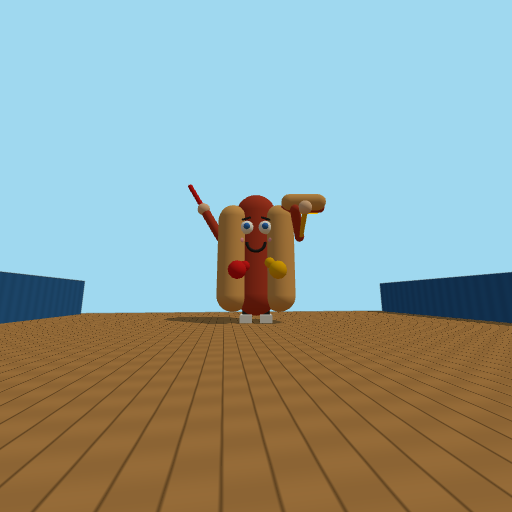
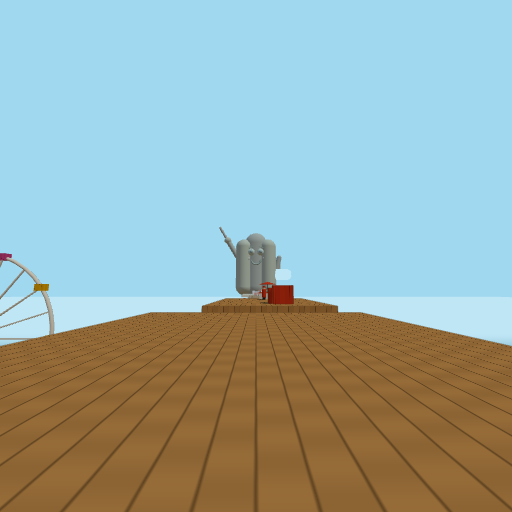
v1.4.0: the Big Wiener looms over the whole run
- boss is spawned at game start as a ~180 m colossus standing in the sea past the pier's end; fog-exempt
  with distance haze so it reads as a silhouette from spawn and grows as you approach
- pier generation now bridges exactly into a fixed arena at its feet (y levels off on the approach)
- giant hot dogs thrown from its hand on a high arc; boss HP 75; castShadow off for the giant

diff --git a/public/index.html b/public/index.html
@@ -3,7 +3,7 @@
 <head>
 <meta charset="utf-8">
 <meta name="viewport" content="width=device-width, initial-scale=1, maximum-scale=1, user-scalable=no">
-<meta name="version" content="1.3.0">
+<meta name="version" content="1.4.0">
 <title>Hot Dog Dash</title>
 <style>
   html, body { margin:0; padding:0; width:100%; height:100%; overflow:hidden; background:#9fd8ef; font-family: "Helvetica Neue", Helvetica, Arial, sans-serif; user-select:none; -webkit-user-select:none; }
@@ -62,7 +62,7 @@
   <div id="bossbar" class="hidden"><div class="bn">THE BIG WIENER</div><div class="bb"><div id="bfill"></div></div><div id="crave" class="k">WANTS: KETCHUP</div></div>
   <div id="banner"></div>
   <div id="tbar"><div id="tfill"></div></div>
-  <div id="ver">v1.3.0</div>
+  <div id="ver">v1.4.0</div>
   <div id="lockHint" class="hidden">MOUSE NOT CAPTURED &middot; CLICK THE GAME TO LOCK</div>
   <div id="touch"><div id="joy"><div id="knob"></div></div><div class="tbtn" id="bJump">JUMP</div><div class="tbtn" id="bPunch">SHOVE</div><div class="tbtn hidden" id="bMust">MUSTARD</div></div>
 </div>
@@ -104,7 +104,7 @@
 <script type="module">
 import * as THREE from 'three';
 
-const VERSION = '1.3.0';
+const VERSION = '1.4.0';
 document.getElementById('ver').textContent = 'v' + VERSION;
 
 // ---------- Renderer / scene ----------
@@ -116,7 +116,7 @@ renderer.shadowMap.type = THREE.PCFSoftShadowMap;
 const scene = new THREE.Scene();
 scene.background = new THREE.Color(0x9fd8ef);
 scene.fog = new THREE.Fog(0xbfe6f5, 45, 170);
-const camera = new THREE.PerspectiveCamera(82, 1, 0.1, 400);
+const camera = new THREE.PerspectiveCamera(82, 1, 0.1, 1500);
 camera.rotation.order = 'YXZ';
 scene.add(camera);
 
@@ -267,7 +267,8 @@ function genChunk() {
   scene.add(ch.group);
   const spots = [];
   const c = cursor;
-  let type = i === 0 ? 'start' : i === BOSS_CHUNK ? 'arena' : i < 3 ? 'flat' : pick(['flat', 'flat', 'pillars', 'stairs', 'wallgap', 'corridor']);
+  let type = i === 0 ? 'start' : i < 3 ? 'flat' : pick(['flat', 'flat', 'pillars', 'stairs', 'wallgap', 'corridor']);
+  if (i > 0 && !arenaDone) { if (ch.bridgeNext || c.z <= ARENA_Z + 2) type = 'arena'; else if (c.z - 40 <= ARENA_Z) type = 'bridge'; }
   const nAgents = () => 1 + (Math.random() < d * 1.4 ? 1 : 0) + (Math.random() < d * 0.8 ? 1 : 0);
 
   if (type === 'start') {
@@ -317,13 +318,23 @@ function genChunk() {
     const na = Math.max(1, nAgents() - 1);
     for (let k = 0; k < na; k++) spots.push([c.x + rand(-3, 3), c.y, c.z - rand(len * 0.5, len * 0.9)]);
     c.z -= len;
+  } else if (type === 'bridge') {
+    // last stretch: a wide plank road that steers the pier back to x=0 and ends right at the arena
+    const len = Math.max(6, c.z - (ARENA_Z + 3));
+    addBox(ch, c.x / 2, c.y - 1, c.z, Math.abs(c.x) + 12, 1, len);
+    const na = nAgents();
+    for (let k = 0; k < na; k++) spots.push([rand(-3, 3), c.y, c.z - rand(len * 0.3, len * 0.8)]);
+    c.z = ARENA_Z; c.x = 0;
+    ch.bridge = true;
   } else if (type === 'arena') {
-    // the end of the pier: a wide stage with a few barrels for cover, two vendors, and the Big Wiener at the far end
-    addBox(ch, c.x, c.y - 1, c.z, 38, 1, 56);
-    for (let k = 0; k < 7; k++) addBox(ch, c.x + rand(-15, 15), c.y, c.z - rand(8, 34), 1.5, rand(1, 1.7), 1.5, crateMat);
-    for (const sx of [-1, 1]) { addBox(ch, c.x + sx * 17, c.y, c.z - 1, 4, 3, 54, wallMat); }          // side tents keep you on stage
-    spots.push([c.x - 10, c.y, c.z - 24], [c.x + 10, c.y, c.z - 24]);
-    boss = new Boss(c.x, c.y, c.z - 46);
+    // the end of the pier: a wide stage at y=0 (the boss's feet), barrels for cover, two vendors
+    c.x = 0; c.z = ARENA_Z;
+    const bottom = Math.min(c.y, 0) - 1;
+    addBox(ch, 0, bottom, c.z, 38, 0 - bottom, 56);
+    c.y = 0;
+    for (let k = 0; k < 7; k++) addBox(ch, rand(-15, 15), 0, c.z - rand(8, 34), 1.5, rand(1, 1.7), 1.5, crateMat);
+    for (const sx of [-1, 1]) { addBox(ch, sx * 17, 0, c.z - 1, 4, 3, 54, wallMat); }          // side tents keep you on stage
+    spots.push([-10, 0, c.z - 24], [10, 0, c.z - 24]);
     bossZoneZ = c.z - 3; arenaDone = true;
     c.z -= 56;
   } else if (type === 'corridor') {
@@ -338,12 +349,16 @@ function genChunk() {
     c.z -= len;
   }
 
-  // transition gap + drift
-  const gap = rand(2.5, 4.5) + d * 1.2;
-  const maxUp = 1.2 - (gap - 2.5) * 0.3;
-  c.z -= gap;
-  c.x += rand(-2.5, 2.5);
-  c.y = clamp(c.y + (Math.random() < 0.5 ? -rand(1, 3) : rand(0, maxUp)), -5, 9);
+  // transition gap + drift (the bridge lands exactly on the arena; the approach drifts back toward y=0)
+  if (type !== 'bridge' && type !== 'arena') {
+    const gap = rand(2.5, 4.5) + d * 1.2;
+    const maxUp = 1.2 - (gap - 2.5) * 0.3;
+    c.z -= gap;
+    c.x += rand(-2.5, 2.5);
+    const near = c.z < ARENA_Z + 160;
+    const dy = Math.random() < (near ? (c.y > 0 ? 0.8 : 0.2) : 0.5) ? -rand(1, 3) : rand(0, maxUp);
+    c.y = near ? clamp(c.y + dy, -1.5, 3) : clamp(c.y + dy, -5, 9);
+  }
 
   // carnival decoration along the shore (non-colliding)
   for (let k = 0; k < 3; k++) {
@@ -519,7 +534,9 @@ function spawnFrags(x, y, z, n = 12, sc = 1) {
 }
 
 // ---------- The Big Wiener (final boss) ----------
-const BOSS_CHUNK = 22;                 // arena is generated as this chunk; nothing is generated past it
+const ARENA_Z = -560, BOSS_Z = ARENA_Z - 56 - 80, BOSS_SCALE = 24, BOSS_Y = -30;   // a ~180 m Big Wiener stands in the sea beyond the pier's end, visible from spawn
+const bossMats = [];
+function bm(mat) { const m = mat.clone(); m.fog = false; m.userData.base = m.color.clone(); bossMats.push(m); return m; }
 let boss = null, arenaDone = false, inBossZone = false, bossZoneZ = 0, won = false;
 const BOSS_YELLS = {
   wind: ['I AM THE WURST!', 'YOU CAN\'T RELISH THIS!', 'COME GET SOME, BUN!', 'FRESH OUT OF MERCY!', 'EAT THE BIG ONE!', 'NOBODY DASHES MY DOGS!'],
@@ -540,35 +557,36 @@ function makeBottle(mat, h = 0.26) {
 }
 class Boss {
   constructor(x, y, z) {
-    this.pos = new THREE.Vector3(x, y, z); this.hp = 60; this.maxHp = 60; this.alive = true;
-    this.throwT = 3.5; this.craving = 'ketchup'; this.craveT = 8; this.voice = 0.45; this.yellH = 9.5; this.yelled = false; this.t = 0;
-    this.splats = [];
-    const g = this.group = new THREE.Group(); g.position.copy(this.pos); scene.add(g);
+    this.pos = new THREE.Vector3(x, y, z); this.hp = 75; this.maxHp = 75; this.alive = true;
+    this.throwT = 3.5; this.craving = 'ketchup'; this.craveT = 8; this.voice = 0.45; this.yellH = 9.5 * BOSS_SCALE; this.yelled = false; this.t = 0;
+    this.splats = []; bossMats.length = 0;
+    const g = this.group = new THREE.Group(); g.position.copy(this.pos); g.scale.setScalar(BOSS_SCALE); scene.add(g);
     // sausage body between two bun halves, big face, sneakers, a bottle in each hand (ketchup held over the head)
-    const sausage = new THREE.Mesh(new THREE.CapsuleGeometry(1.35, 5.2, 6, 16), sausageMat); sausage.position.y = 4.3; sausage.castShadow = true;
+    const sausage = new THREE.Mesh(new THREE.CapsuleGeometry(1.35, 5.2, 6, 16), bm(sausageMat)); sausage.position.y = 4.3; sausage.castShadow = true;
     for (const sx of [-1, 1]) {
-      const bun = new THREE.Mesh(new THREE.CapsuleGeometry(1.0, 4.8, 6, 14), bunMat); bun.position.set(sx * 1.45, 4.0, 0.25); bun.scale.z = 1.4; bun.castShadow = true; g.add(bun);
-      const eye = new THREE.Mesh(new THREE.SphereGeometry(0.42, 14, 10), whiteMat); eye.position.set(sx * 0.55, 5.7, 1.2); g.add(eye);
-      const pupil = new THREE.Mesh(new THREE.SphereGeometry(0.2, 10, 8), blueMat); pupil.position.set(sx * 0.55, 5.7, 1.56); g.add(pupil);
-      const brow = new THREE.Mesh(unitBox, darkMat); brow.position.set(sx * 0.6, 6.25, 1.3); brow.scale.set(0.6, 0.1, 0.1); brow.rotation.z = sx * -0.3; g.add(brow);
-      const cheek = new THREE.Mesh(new THREE.SphereGeometry(0.28, 10, 8), pinkMat); cheek.position.set(sx * 1.0, 4.9, 1.15); g.add(cheek);
-      const leg = new THREE.Mesh(unitBox, darkMat); leg.position.set(sx * 0.6, 0.75, 0); leg.scale.set(0.5, 1.5, 0.5); g.add(leg);
-      const shoe = new THREE.Mesh(unitBox, whiteMat); shoe.position.set(sx * 0.6, 0.22, 0.3); shoe.scale.set(0.7, 0.44, 1.3); shoe.castShadow = true; g.add(shoe);
-      const toe = new THREE.Mesh(unitBox, metalMat); toe.position.set(sx * 0.6, 0.22, 0.95); toe.scale.set(0.72, 0.46, 0.1); g.add(toe);
+      const bun = new THREE.Mesh(new THREE.CapsuleGeometry(1.0, 4.8, 6, 14), bm(bunMat)); bun.position.set(sx * 1.45, 4.0, 0.25); bun.scale.z = 1.4; bun.castShadow = true; g.add(bun);
+      const eye = new THREE.Mesh(new THREE.SphereGeometry(0.42, 14, 10), bm(whiteMat)); eye.position.set(sx * 0.55, 5.7, 1.2); g.add(eye);
+      const pupil = new THREE.Mesh(new THREE.SphereGeometry(0.2, 10, 8), bm(blueMat)); pupil.position.set(sx * 0.55, 5.7, 1.56); g.add(pupil);
+      const brow = new THREE.Mesh(unitBox, bm(darkMat)); brow.position.set(sx * 0.6, 6.25, 1.3); brow.scale.set(0.6, 0.1, 0.1); brow.rotation.z = sx * -0.3; g.add(brow);
+      const cheek = new THREE.Mesh(new THREE.SphereGeometry(0.28, 10, 8), bm(pinkMat)); cheek.position.set(sx * 1.0, 4.9, 1.15); g.add(cheek);
+      const leg = new THREE.Mesh(unitBox, bm(darkMat)); leg.position.set(sx * 0.6, 0.75, 0); leg.scale.set(0.5, 1.5, 0.5); g.add(leg);
+      const shoe = new THREE.Mesh(unitBox, bm(whiteMat)); shoe.position.set(sx * 0.6, 0.22, 0.3); shoe.scale.set(0.7, 0.44, 1.3); shoe.castShadow = true; g.add(shoe);
+      const toe = new THREE.Mesh(unitBox, bm(metalMat)); toe.position.set(sx * 0.6, 0.22, 0.95); toe.scale.set(0.72, 0.46, 0.1); g.add(toe);
     }
-    const mouth = new THREE.Mesh(new THREE.TorusGeometry(0.55, 0.09, 8, 16, Math.PI), darkMat); mouth.position.set(0, 4.75, 1.35); mouth.rotation.z = Math.PI; g.add(mouth);
-    const drip = new THREE.Mesh(new THREE.SphereGeometry(0.35, 10, 8), ketchupMat); drip.position.set(0.1, 7.05, 0.2); drip.scale.y = 0.5; g.add(drip);
+    const mouth = new THREE.Mesh(new THREE.TorusGeometry(0.55, 0.09, 8, 16, Math.PI), bm(darkMat)); mouth.position.set(0, 4.75, 1.35); mouth.rotation.z = Math.PI; g.add(mouth);
+    const drip = new THREE.Mesh(new THREE.SphereGeometry(0.35, 10, 8), bm(ketchupMat)); drip.position.set(0.1, 7.05, 0.2); drip.scale.y = 0.5; g.add(drip);
     // arms pivot at the shoulders; right arm throws, left holds ketchup over the head
     this.armR = new THREE.Group(); this.armR.position.set(2.3, 5.3, 0);
-    const armRm = new THREE.Mesh(new THREE.CapsuleGeometry(0.3, 2.2, 4, 8), sausageMat); armRm.position.set(0.3, -1.2, 0); armRm.rotation.z = -0.25; this.armR.add(armRm);
-    const handR = new THREE.Mesh(new THREE.SphereGeometry(0.42, 10, 8), skinMat); handR.position.set(0.6, -2.4, 0); this.armR.add(handR);
+    const armRm = new THREE.Mesh(new THREE.CapsuleGeometry(0.3, 2.2, 4, 8), bm(sausageMat)); armRm.position.set(0.3, -1.2, 0); armRm.rotation.z = -0.25; this.armR.add(armRm);
+    const handR = new THREE.Mesh(new THREE.SphereGeometry(0.42, 10, 8), bm(skinMat)); handR.position.set(0.6, -2.4, 0); this.armR.add(handR);
     this.heldDog = makeHotDog(); this.heldDog.scale.setScalar(5); this.heldDog.position.set(0.6, -2.4, 0.6); this.heldDog.rotation.y = Math.PI / 2; this.armR.add(this.heldDog);
-    const mustard = makeBottle(mustardLMat, 0.9); mustard.scale.setScalar(2.2); mustard.position.set(0.6, -2.4, -0.2); this.armR.add(mustard);
+    const mustard = makeBottle(bm(mustardLMat), 0.9); mustard.scale.setScalar(2.2); mustard.position.set(0.6, -2.4, -0.2); this.armR.add(mustard);
     this.armL = new THREE.Group(); this.armL.position.set(-2.3, 5.3, 0); this.armL.rotation.z = -2.6;
-    const armLm = new THREE.Mesh(new THREE.CapsuleGeometry(0.3, 2.2, 4, 8), sausageMat); armLm.position.set(0, -1.2, 0); this.armL.add(armLm);
-    const handL = new THREE.Mesh(new THREE.SphereGeometry(0.42, 10, 8), skinMat); handL.position.set(0, -2.4, 0); this.armL.add(handL);
-    const ketchup = makeBottle(ketchupMat, 0.9); ketchup.scale.setScalar(2.2); ketchup.position.set(0, -2.4, 0); ketchup.rotation.z = Math.PI; this.armL.add(ketchup);
+    const armLm = new THREE.Mesh(new THREE.CapsuleGeometry(0.3, 2.2, 4, 8), bm(sausageMat)); armLm.position.set(0, -1.2, 0); this.armL.add(armLm);
+    const handL = new THREE.Mesh(new THREE.SphereGeometry(0.42, 10, 8), bm(skinMat)); handL.position.set(0, -2.4, 0); this.armL.add(handL);
+    const ketchup = makeBottle(bm(ketchupMat), 0.9); ketchup.scale.setScalar(2.2); ketchup.position.set(0, -2.4, 0); ketchup.rotation.z = Math.PI; this.armL.add(ketchup);
     g.add(sausage, mouth, this.armR, this.armL);
+    g.traverse(o => { o.castShadow = false; });
     this.handWorld = new THREE.Vector3();
   }
   update(wdt) {
@@ -577,7 +595,10 @@ class Boss {
     const eye = tmpA.set(P.pos.x, P.pos.y + P.eye, P.pos.z);
     const dx = eye.x - this.pos.x, dz = eye.z - this.pos.z, dist = Math.hypot(dx, dz);
     this.group.rotation.y = Math.atan2(dx, dz);
-    this.group.position.y = this.pos.y + Math.sin(this.t * 2) * 0.15;
+    this.group.position.y = this.pos.y + Math.sin(this.t * 2) * 0.15 * BOSS_SCALE;
+    // atmospheric haze: fade toward the fog colour with distance so it looms as a silhouette, never fogged out
+    const haze = clamp((dist - 120) / 480, 0, 0.78);
+    for (const m of bossMats) m.color.copy(m.userData.base).lerp(scene.fog.color, haze);
     if (!inBossZone) return;
     this.craveT -= wdt;
     if (this.craveT <= 0) { this.craveT = 8; this.craving = this.craving === 'ketchup' ? 'mustard' : 'ketchup'; yell(this, 'crave', { crave: [this.craving === 'ketchup' ? BOSS_YELLS.crave[0] : BOSS_YELLS.crave[1]] }); updateBossBar(); }
@@ -588,9 +609,9 @@ class Boss {
     if (this.throwT <= 0) {
       this.yelled = false; this.throwT = rand(2.6, 4.2) - 1.2 * (1 - this.hp / this.maxHp);
       this.heldDog.getWorldPosition(this.handWorld);
-      const lead = (dist / 20) * 0.6;
+      const lead = (dist / 42) * 0.45;
       const target = tmpC.set(eye.x + P.vel.x * lead, eye.y - 0.3, eye.z + P.vel.z * lead);
-      spawnBullet(this.handWorld, throwDir(this.handWorld, target, 20), this, { speed: 20, scale: 6, r: 1.5, big: true });
+      spawnBullet(this.handWorld, throwDir(this.handWorld, target, 42), this, { speed: 42, scale: 14, r: 2.2, big: true });
       SFX.shot(timeScale);
     }
   }
@@ -599,7 +620,7 @@ class Boss {
     const dmg = kind === this.craving ? 3 : 1;
     this.hp -= dmg; SFX.splat();
     const sp = new THREE.Mesh(new THREE.SphereGeometry(0.32 + dmg * 0.06, 8, 6), kind === 'ketchup' ? ketchupMat : mustardLMat);
-    sp.position.copy(this.group.worldToLocal(point.clone())); sp.scale.z = 0.5; this.group.add(sp); this.splats.push(sp);
+    sp.position.copy(this.group.worldToLocal(point.clone())); sp.scale.z = 0.5; sp.scale.multiplyScalar(1.6); this.group.add(sp); this.splats.push(sp);
     if (this.splats.length > 90) this.group.remove(this.splats.shift());
     if (Math.random() < 0.18) yell(this, 'hurt', BOSS_YELLS);
     updateBossBar();
@@ -607,7 +628,7 @@ class Boss {
   }
   die() {
     this.alive = false; won = true; this.group.visible = false;
-    spawnFrags(this.pos.x, this.pos.y + 4, this.pos.z, 70, 2.2);
+    spawnFrags(this.pos.x, this.pos.y + 4 * BOSS_SCALE, this.pos.z, 90, 3.5);
     yell(this, 'dead', BOSS_YELLS); SFX.bossRoar(); SFX.death();
     if (distance > best) { best = distance; try { localStorage.setItem('hotdog_best', best); } catch (e) {} }
     document.getElementById('wDist').textContent = distance; document.getElementById('wKills').textContent = kills;
@@ -660,7 +681,7 @@ function updateShots(wdt) {
     let dead = sh.life <= 0 || sh.pos.y < -30;
     if (!dead && boss && boss.alive) {
       const bx = boss.pos.x, bz = boss.pos.z, by = boss.group.position.y;
-      if (segPointDist2(bx, by + 1, bz, bx, by + 7.6, bz, sh.pos.x, sh.pos.y, sh.pos.z) < 2.4 * 2.4) { boss.hit(sh.kind, sh.pos); dead = true; }
+      if (segPointDist2(bx, by + 1 * BOSS_SCALE, bz, bx, by + 7.6 * BOSS_SCALE, bz, sh.pos.x, sh.pos.y, sh.pos.z) < (2.4 * BOSS_SCALE) ** 2) { boss.hit(sh.kind, sh.pos); dead = true; }
     }
     // condiments knock hot dogs (even the big one) out of the air, and sauce vendors
     if (!dead) for (let j = bullets.length - 1; j >= 0; j--) {
@@ -769,7 +790,7 @@ function resetGame() {
   for (const b of bullets) removeBullet(b); bullets = [];
   for (const f of frags) scene.remove(f.mesh); frags = [];
   for (const sh of shots) scene.remove(sh.mesh); shots = [];
-  if (boss) boss.dispose(); boss = null; arenaDone = false; inBossZone = false; won = false;
+  if (boss) boss.dispose(); boss = new Boss(0, BOSS_Y, BOSS_Z); arenaDone = false; inBossZone = false; won = false;
   document.getElementById('bossbar').classList.add('hidden'); document.getElementById('bMust').classList.add('hidden'); document.getElementById('banner').style.opacity = 0;
   agents = []; chunkIndex = 0; cursor.x = 0; cursor.y = 0; cursor.z = 0;
   P.pos.set(0, 0.01, 0); P.vel.set(0, 0, 0); P.yaw = 0; P.pitch = 0; P.roll = 0;

diff --git a/README.md b/README.md
@@ -8,8 +8,9 @@ Run, jump, slide, mantle and wall-run down the endless pier; dodge the dogs, sho
 or let them pelt each other. Vendors yell at you in autotune (word-by-word speech synthesis snapped to a pentatonic
 scale with a synth harmony underneath); only vendors within ~24 m are audible.
 
-At the end of the pier (chunk 22, roughly 550 m) is the arena and **The Big Wiener**: a giant hot dog who lobs
-giant hot dogs. In the arena you get a ketchup gun (left click / Q) and a mustard gun (right click / E). The boss
+**The Big Wiener** — a ~180 m hot dog standing in the sea at the end of the pier — is visible from the moment you spawn
+and grows as you run (it's exempt from fog and hazed by distance instead). The pier bridges into an arena at its feet
+(560 m); there it winds up and lobs giant hot dogs down at you. In the arena you get a ketchup gun (left click / Q) and a mustard gun (right click / E). The boss
 alternates which condiment it "wants" (shown under its HP bar); matching hits do 3 damage, the other does 1.
 Condiments also knock hot dogs — even the giant ones — out of the air. Beat it for the win screen.
 
